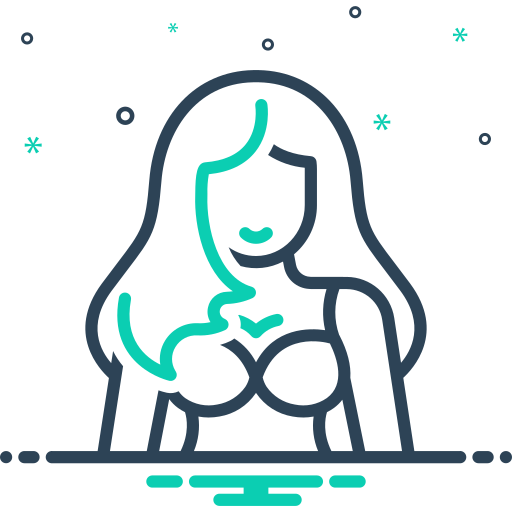
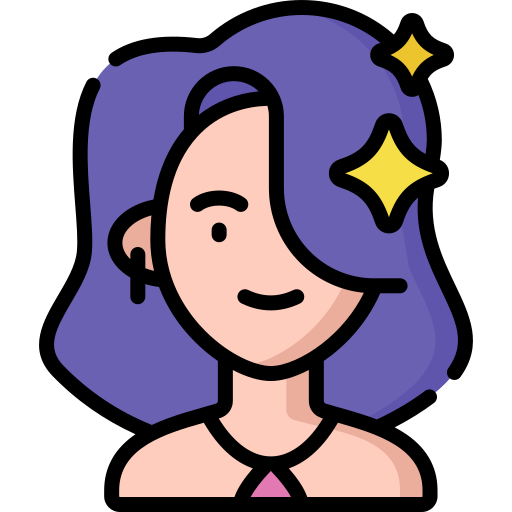
modification des styles css

diff --git a/index.html b/index.html
@@ -50,6 +50,18 @@
         color: #fff;
         font-family: 'Fira Code', monospace;
       }
+       /* Fix affichage image complète */
+  .image-div {
+    overflow: visible !important;
+    height: auto !important;
+  }
+
+  .image-div img {
+    width: 100%;
+    height: auto !important;
+    object-fit: contain !important;
+    display: block;
+  }
       /* couleurs par technologie */
       .badge-react      { background: #61DAFB; color: #000; }
       .badge-nodejs     { background: #68A063; }
@@ -319,8 +331,11 @@
                         <div class="project-box project-box3" id="project-box3">
                             <div class="info-div">
                                 <img src="src/png/admin-dashboard.png" alt="" class="faviconforProjectAquaregia">
-                                <article class="ProjectHeading">Pastry Web App – Admin Dashboard</article>
-                                <p class="ProjectDescription">A dynamic web application for managing a pastry business. The admin dashboard allows adding, updating, and managing products, categories, and orders through a simple and intuitive interface. The project is fully deployed on Render (frontend and backend) and uses MongoDB for data management and persistence. Ideal for efficiently handling inventory, customer orders, and showcasing products online.</p>
+                                <article class="ProjectHeading">Admin Dashboard</article>
+                                <p class="ProjectDescription">
+                                    A full-stack pastry management app with an admin dashboard to handle products, 
+                                    categories and orders. Deployed on Render with MongoDB for data persistence.
+                                  </p>
                                 <div class="project-skills">
                                   <span class="skill-badge badge-react">React JS</span>
                                   <span class="skill-badge badge-nodejs">Node.js</span>
@@ -395,7 +410,7 @@
                             <div class="info-div">
                                 <img src="src/png/shoply.png" alt="" class="faviconforProjectAquaregia">
                                 <article class="ProjectHeading">Shoply</article>
-                                <p class="ProjectDescription">Shoply is a modern e-commerce platform for women's fashion that allows users to browse products, add items to their cart, and complete purchases through a simple and secure checkout. The application is built with Angular CLI v21 for the frontend and Node.js for the backend, providing a fast, responsive, and scalable shopping experience. ✨</p>
+                                <p class="ProjectDescription">Shoply is a modern e-commerce platform for women's fashion that allows users to browse products, add items to their cart, and complete purchases through a simple and secure checkout ,providing a fast, responsive, and scalable shopping experience. ✨</p>
                                 <div class="project-skills">
                                   <span class="skill-badge badge-angular">Angular</span>
                                   <span class="skill-badge badge-nodejs">Node.js</span>
